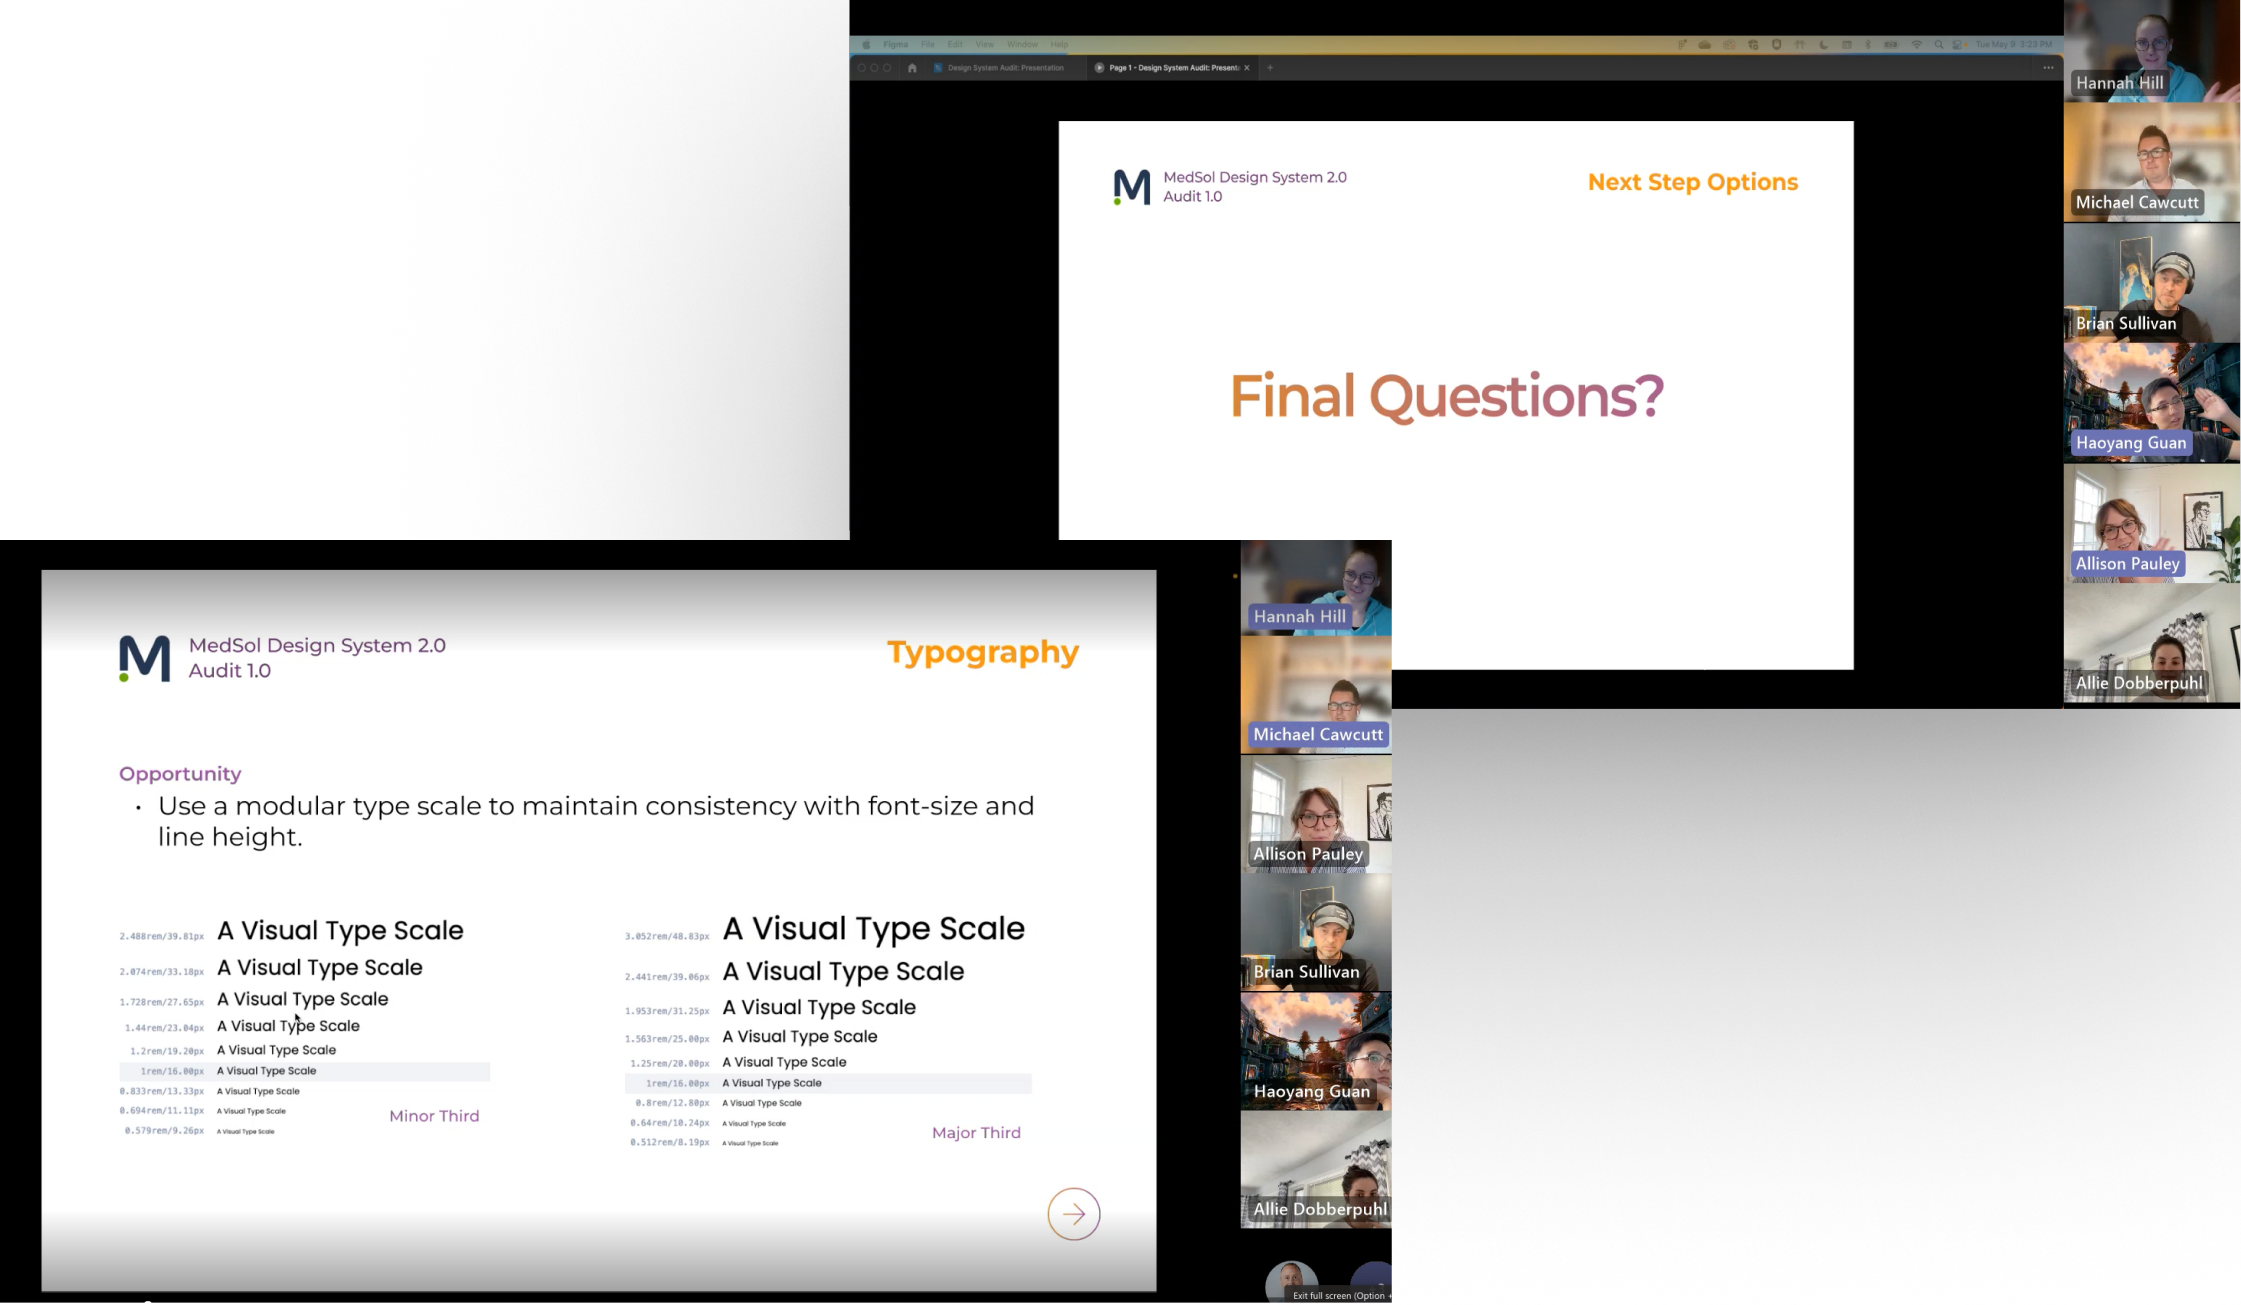
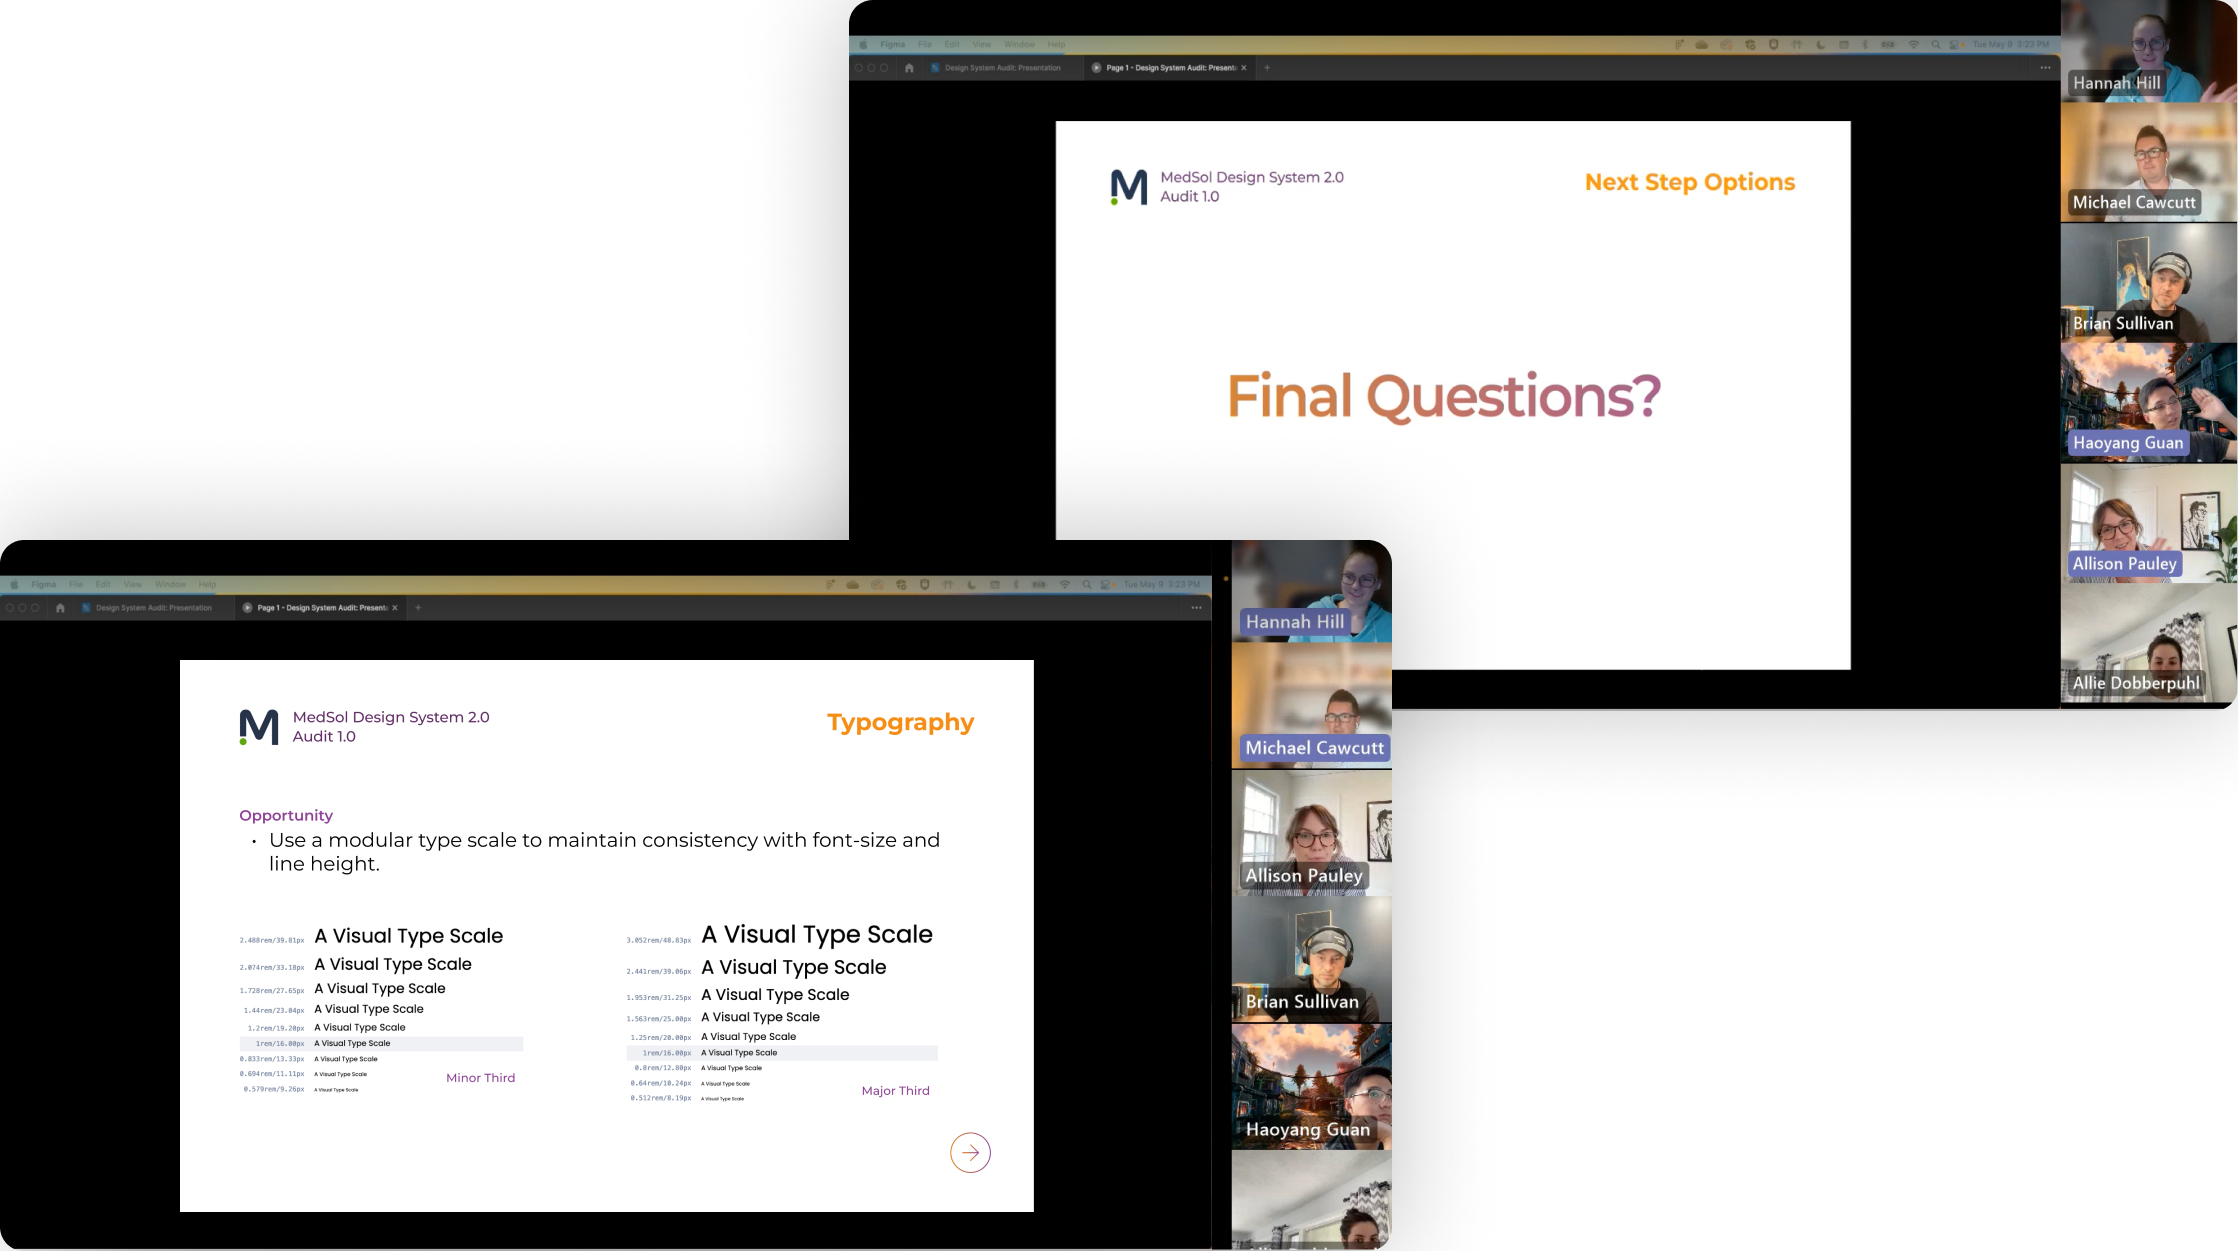
wrapping up audit v1 case study

Changed region(s): [[0.0, 0.0, 1.0, 1.0], [0.5241, 0.2806, 0.7399, 0.3429], [0.9866, 0.0, 1.0, 0.0312]]

diff --git a/caseStudyMSDSAudit.html b/caseStudyMSDSAudit.html
@@ -40,37 +40,22 @@
                     <li><a href="about.html">About Me</a></li>
                 </ul>
             </header>
-            <!-- Hero 
-            <section class="hero">
-                <div data-aos="zoom-in" class="hero_container DS hero_container_modified" style="max-height: 250px;">
-                    <img class="hero_device designSystem" src="images/msDesignSystemAudit/MSDSAuditBanner.jpg" alt="Design System audit presentation cover">
-                </div>
-            </section>-->
-            <!--  hero section  -->
-           <!--<section class="two-col-grid hero-medsol hero-grid">
-                <div class="grid-item">
-                    <img src="images/msDesignSystemAudit/MSDSAudit-macbookFrame.png" alt="Macbook device frame displaying ms audit presentation screenshot">
-                </div>
-                <div class="grid-item">
-                    <h1 class="white">Auditing Medical Solutions existing design system and presenting recommendations for a path forward</h1>
-                   <h5 class="white"></h5>
-                </div> 
-            </section>-->
+            <!-- Hero-->
             <section id="hero" class="two-col-grid-section">
-                <!-- title + image -->
+                <!-- title -->
                     <div data-aos="fade-right" class="grid-item">
-                        <!-- project summary statement -->
                         <h1>Auditing Medical Solutions Design System: A Case Study</h1>
                     </div>
+                <!-- Hero image -->
                 <div data-aos="fade-left" class="grid-item">
                     <img src="images/msDesignSystemAudit/MSDSAudit-compilation.png" alt="Macbook device frame displaying ms audit presentation screenshot">
                 </div>
             </section>
-            <section id="trdt" class="one-col-grid-section">
-                <!-- overview items  -->
+            <!-- overview items  -->
+            <section id="trdt" class="one-col-grid-section" >
                 <div data-aos="fade-right" class="inner-grid-four-column" style="grid-column-start: 2 span;">
                     <!-- timeline  -->
-                    <div >
+                    <div style="justify-self: start;">
                         <p class="subtext1 inner-grid-four-column-text">Timeline</p>
                         <ul class="unstyled-list">
                             <li>March 2023 - April 2023</li>
@@ -93,7 +78,7 @@
                         </ul>
                     </div>
                     <!-- tools -->
-                    <div>
+                    <div >
                         <p class="subtext1 inner-grid-four-column-text">Tools</p>
                         <ul class="unstyled-list">
                             <li>Figma</li>

diff --git a/css/style.css b/css/style.css
@@ -340,6 +340,7 @@ p {
     padding-bottom: 1em;
     font-style: normal;
     width: 100%;
+    max-width: 100%;
     line-height: 1.6;
 }
 /*-- paragraph text --*/
@@ -406,6 +407,7 @@ p.foot {
 
     p {
         font-size: 1rem;
+        max-width: 800px;
     }
 }
 /*--sets/overrides color of text to white--*/
@@ -714,17 +716,19 @@ a.button:hover {
     grid-template-columns: 1fr ;
     grid-template-rows: auto;
     grid-gap: 1rem;
-    justify-content: space-around;
+    justify-content: space-between;
     margin: .5rem;
     text-align: center;
     place-items: center;
 }
 /* four column grid items used in summary */
 .inner-grid-four-column > * {
-    align-self: stretch;
+   /* place-self: center stretch; /* align self + justify self */
     width: fit-content;
     max-width: 100%;
     text-align: center;
+    padding-left: 0px;
+    justify-self: center;
 }
 /* centers heading text in four col grid on mobile  */
 p.inner-grid-four-column-text{
@@ -736,15 +740,21 @@ p.inner-grid-four-column-text{
         display: grid;
         grid-template-columns: 1fr 1fr 1fr 1fr;
         text-align: left;
+        justify-content: start;
+        place-items: start stretch; /* align items + justify items */
+        width: 100%;
+        max-width: 1400px;
     }
     .inner-grid-four-column > * {
-        justify-self: center;
         text-align: left;
+        justify-self: center;
     }
     p.inner-grid-four-column-text{
-    text-align: left;
+        text-align: left;
     }
 }
+
+
 .hero-medsol {
     background: #263349;
 }
